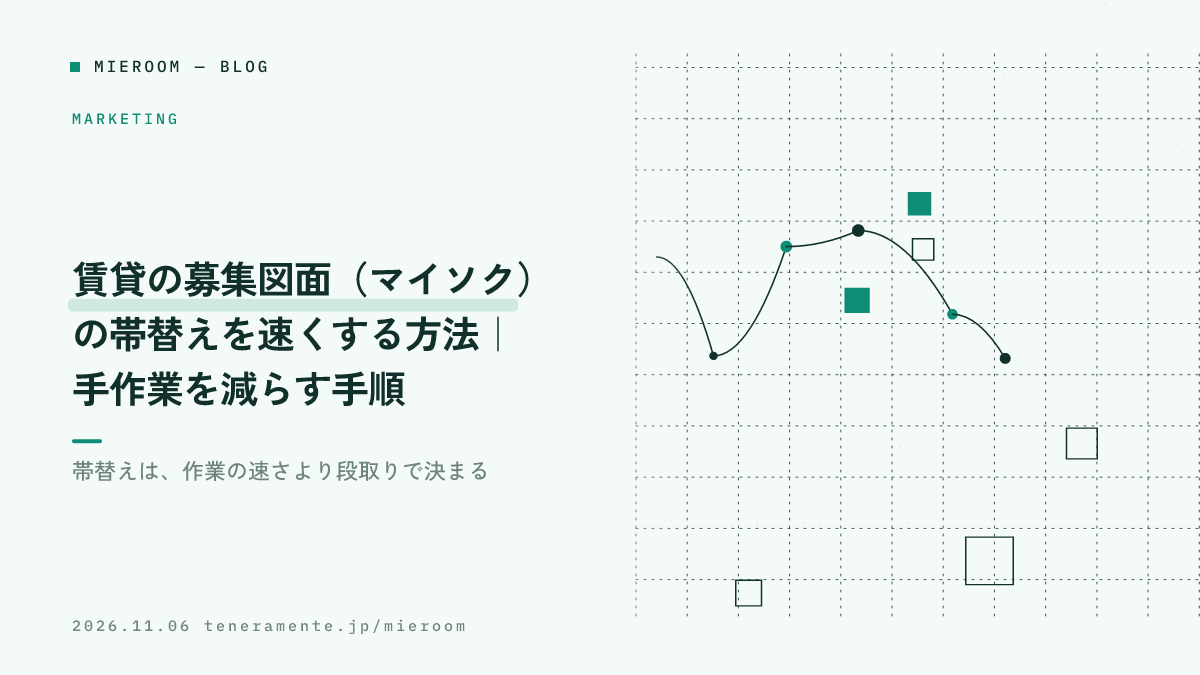
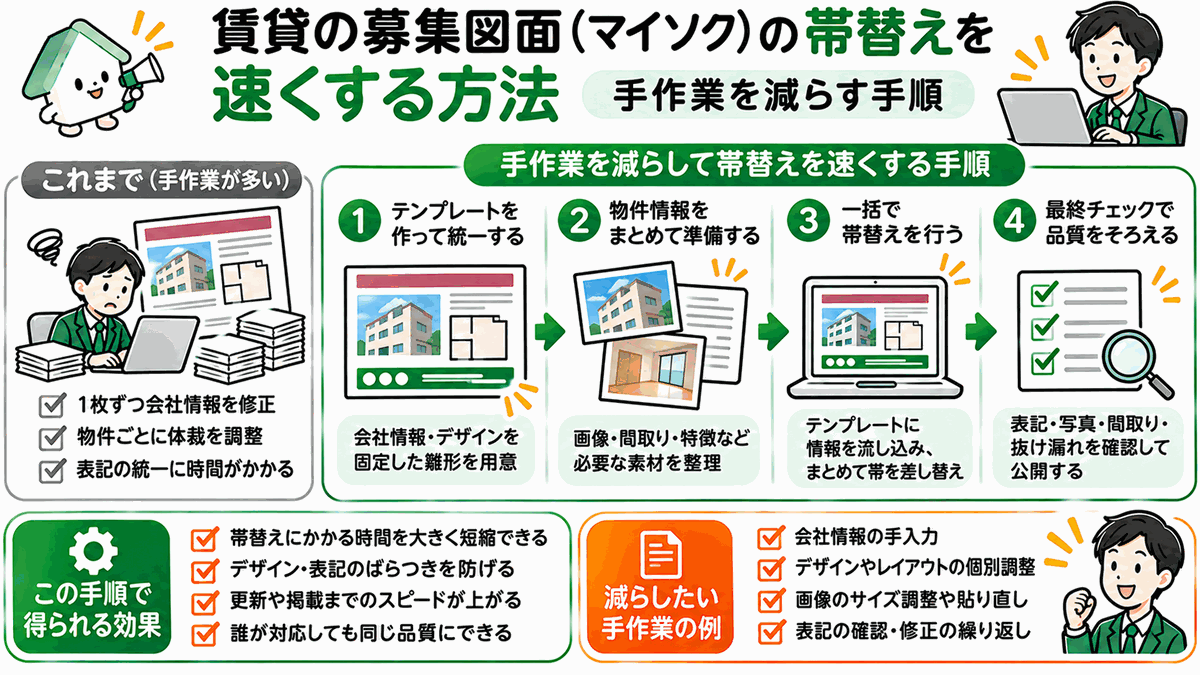
covers: 記事のトップ画像を ChatGPT の画像に差し替え（m109・m102）

diff --git a/mieroom/articles/chintai-kokyaku-kanrihyo-koumoku.html b/mieroom/articles/chintai-kokyaku-kanrihyo-koumoku.html
@@ -13,12 +13,15 @@
 <meta property="og:description" content="賃貸仲介の店舗でExcelの顧客管理表を作るときの項目設計を、使い道と入力タイミングから整理しました。最低限そろえる項目、追客のために足す項目、入力ルールの決め方、Excelで限界が出るサイン、チェックリストとよくある失敗までまとめています。">
 <meta property="og:url" content="https://mieroom.cloud/articles/chintai-kokyaku-kanrihyo-koumoku.html">
 <meta property="og:site_name" content="ミエルーム">
+<meta property="og:image" content="https://mieroom.cloud/assets/covers/chintai-kokyaku-kanrihyo-koumoku.png">
+<meta property="og:image:width" content="1200">
+<meta property="og:image:height" content="675">
 <meta name="twitter:card" content="summary_large_image">
 <link rel="preconnect" href="https://fonts.googleapis.com">
 <link rel="preconnect" href="https://fonts.gstatic.com" crossorigin>
 <link href="https://fonts.googleapis.com/css2?family=Noto+Sans+JP:wght@400;500;700;900&family=Zen+Kaku+Gothic+New:wght@500;700;900&display=swap" rel="stylesheet">
 <link rel="stylesheet" href="../assets/site.css">
-<script type="application/ld+json">{"@context":"https://schema.org","@graph":[{"@type":"BlogPosting","headline":"賃貸仲介の顧客管理表（Excel）の項目設計と、システムに移すタイミング","description":"賃貸仲介の店舗でExcelの顧客管理表を作るときの項目設計を、使い道と入力タイミングから整理しました。最低限そろえる項目、追客のために足す項目、入力ルールの決め方、Excelで限界が出るサイン、チェックリストとよくある失敗までまとめています。","datePublished":"2026-11-08","dateModified":"2026-11-08","inLanguage":"ja","mainEntityOfPage":"https://mieroom.cloud/articles/chintai-kokyaku-kanrihyo-koumoku.html","articleSection":"業務効率化","author":{"@type":"Organization","name":"ミエルーム編集部"},"publisher":{"@type":"Organization","name":"株式会社TENERAMENTE","logo":{"@type":"ImageObject","url":"https://teneramente.jp/assets/img/favicon-512.png"}},"keywords":"顧客管理, Excel, 業務効率化, 追客, 賃貸仲介"},{"@type":"BreadcrumbList","itemListElement":[{"@type":"ListItem","position":1,"name":"ミエルーム","item":"https://mieroom.cloud/"},{"@type":"ListItem","position":2,"name":"ブログ","item":"https://mieroom.cloud/blog.html"},{"@type":"ListItem","position":3,"name":"賃貸仲介の顧客管理表（Excel）の項目設計と、システムに移すタイミング","item":"https://mieroom.cloud/articles/chintai-kokyaku-kanrihyo-koumoku.html"}]},{"@type":"FAQPage","mainEntity":[{"@type":"Question","name":"顧客管理表の項目は、何列くらいが適切ですか。","acceptedAnswer":{"@type":"Answer","text":"始めるときは8列程度で足ります。受付日、氏名・連絡先、反響の経路、希望条件、入居希望時期、状況、担当者、次にやること・次回連絡日です。これが毎日埋まるようになってから、紹介した物件や断られた理由を足してください。最初から20列を作ると、埋まるのは名前と電話番号だけになります。"}},{"@type":"Question","name":"テンプレートを探していますが、そのまま使えますか。","acceptedAnswer":{"@type":"Answer","text":"項目の見本としては役に立ちますが、そのままでは使いにくいことが多いです。状況の段の名前や、断られた理由の区分は、店舗の運用に合わせて書き換える必要があります。列の参考にとどめ、入力のタイミングと言葉は自店舗で決めてください。"}},{"@type":"Question","name":"顧客管理表と申込管理表は、分けるべきですか。","acceptedAnswer":{"@type":"Answer","text":"初めは分かれていても構いませんが、同じ案件を両方に書いている状態が続くなら、まとめる検討をしてください。分かれていること自体ではなく、同じ内容を二度入力している点が負担になります。申込管理表の作り方は賃貸仲介の申込管理表の作り方に整理しています。"}},{"@type":"Question","name":"過去の顧客データは、どこまで残すべきですか。","acceptedAnswer":{"@type":"Answer","text":"終了した案件も残してください。時期がまだという理由で見送った方は、半年後や一年後の掘り起こしの対象になります。削除するのではなく、状況を終了にして、通常の一覧から外して表示する形が実務的です。個人情報の扱いは、保管期間と閲覧できる人を店舗で決めておいてください。"}},{"@type":"Question","name":"表計算ソフトからシステムに移すとき、入力済みのデータは引き継げますか。","acceptedAnswer":{"@type":"Answer","text":"引き継げます。ミエルームはExcelデータのインポートと初期設定の代行に対応しており、最短即日からのスタートが可能です。移す前に、項目名と状況の言葉を整えておくと、移行後の手直しが少なくなります。デモアカウントを発行していますので、いまの表の項目がどう収まるかを先に確かめていただけます。"}}]}]}</script>
+<script type="application/ld+json">{"@context":"https://schema.org","@graph":[{"@type":"BlogPosting","headline":"賃貸仲介の顧客管理表（Excel）の項目設計と、システムに移すタイミング","description":"賃貸仲介の店舗でExcelの顧客管理表を作るときの項目設計を、使い道と入力タイミングから整理しました。最低限そろえる項目、追客のために足す項目、入力ルールの決め方、Excelで限界が出るサイン、チェックリストとよくある失敗までまとめています。","datePublished":"2026-11-08","dateModified":"2026-11-08","inLanguage":"ja","mainEntityOfPage":"https://mieroom.cloud/articles/chintai-kokyaku-kanrihyo-koumoku.html","image":"https://mieroom.cloud/assets/covers/chintai-kokyaku-kanrihyo-koumoku.png","articleSection":"業務効率化","author":{"@type":"Organization","name":"ミエルーム編集部"},"publisher":{"@type":"Organization","name":"株式会社TENERAMENTE","logo":{"@type":"ImageObject","url":"https://teneramente.jp/assets/img/favicon-512.png"}},"keywords":"顧客管理, Excel, 業務効率化, 追客, 賃貸仲介"},{"@type":"BreadcrumbList","itemListElement":[{"@type":"ListItem","position":1,"name":"ミエルーム","item":"https://mieroom.cloud/"},{"@type":"ListItem","position":2,"name":"ブログ","item":"https://mieroom.cloud/blog.html"},{"@type":"ListItem","position":3,"name":"賃貸仲介の顧客管理表（Excel）の項目設計と、システムに移すタイミング","item":"https://mieroom.cloud/articles/chintai-kokyaku-kanrihyo-koumoku.html"}]},{"@type":"FAQPage","mainEntity":[{"@type":"Question","name":"顧客管理表の項目は、何列くらいが適切ですか。","acceptedAnswer":{"@type":"Answer","text":"始めるときは8列程度で足ります。受付日、氏名・連絡先、反響の経路、希望条件、入居希望時期、状況、担当者、次にやること・次回連絡日です。これが毎日埋まるようになってから、紹介した物件や断られた理由を足してください。最初から20列を作ると、埋まるのは名前と電話番号だけになります。"}},{"@type":"Question","name":"テンプレートを探していますが、そのまま使えますか。","acceptedAnswer":{"@type":"Answer","text":"項目の見本としては役に立ちますが、そのままでは使いにくいことが多いです。状況の段の名前や、断られた理由の区分は、店舗の運用に合わせて書き換える必要があります。列の参考にとどめ、入力のタイミングと言葉は自店舗で決めてください。"}},{"@type":"Question","name":"顧客管理表と申込管理表は、分けるべきですか。","acceptedAnswer":{"@type":"Answer","text":"初めは分かれていても構いませんが、同じ案件を両方に書いている状態が続くなら、まとめる検討をしてください。分かれていること自体ではなく、同じ内容を二度入力している点が負担になります。申込管理表の作り方は賃貸仲介の申込管理表の作り方に整理しています。"}},{"@type":"Question","name":"過去の顧客データは、どこまで残すべきですか。","acceptedAnswer":{"@type":"Answer","text":"終了した案件も残してください。時期がまだという理由で見送った方は、半年後や一年後の掘り起こしの対象になります。削除するのではなく、状況を終了にして、通常の一覧から外して表示する形が実務的です。個人情報の扱いは、保管期間と閲覧できる人を店舗で決めておいてください。"}},{"@type":"Question","name":"表計算ソフトからシステムに移すとき、入力済みのデータは引き継げますか。","acceptedAnswer":{"@type":"Answer","text":"引き継げます。ミエルームはExcelデータのインポートと初期設定の代行に対応しており、最短即日からのスタートが可能です。移す前に、項目名と状況の言葉を整えておくと、移行後の手直しが少なくなります。デモアカウントを発行していますので、いまの表の項目がどう収まるかを先に確かめていただけます。"}}]}]}</script>
 <style id="mp-nav-fit">
 /* 狭い画面ではヘッダーのボタンを小さくして、右にはみ出さないようにする */
 @media (max-width: 640px) {
@@ -72,7 +75,9 @@
     </div>
   </div>
 </section>
-
+<div class="post-cover">
+  <div class="band band--img"><img src="../assets/covers/chintai-kokyaku-kanrihyo-koumoku.webp" alt="賃貸仲介の顧客管理表（Excel）の項目設計と、システムに移すタイミング" width="1200" height="675" decoding="async"></div>
+</div>
 <div class="post-body">
 <p>顧客管理表を作ろうとして、まず列を並べたところで止まっていませんか。思いつく項目を足していくと、入力する人が追いつかず、半分が空欄の表だけが残ります。<strong>賃貸仲介の顧客管理表は、項目の多さではなく、何に使う項目なのかを決めてから作るのが正しい順番です</strong>。この記事では、最低限そろえる項目、追客のために足す項目、入力のルール、そして表を卒業する時期の見分け方を順に整理します。</p>
 <div class="conclusion">

diff --git a/mieroom/articles/boshu-zumen-obigae.html b/mieroom/articles/boshu-zumen-obigae.html
@@ -13,12 +13,15 @@
 <meta property="og:description" content="募集図面の帯替えに毎日時間を取られている店舗向けに、速くするための段取りを整理しました。自店舗の帯の中身の決め方、届いた図面の仕分け、手順の固定、1枚あたりの時間を縮める工夫、よくある失敗までまとめています。">
 <meta property="og:url" content="https://mieroom.cloud/articles/boshu-zumen-obigae.html">
 <meta property="og:site_name" content="ミエルーム">
+<meta property="og:image" content="https://mieroom.cloud/assets/covers/boshu-zumen-obigae.png">
+<meta property="og:image:width" content="1200">
+<meta property="og:image:height" content="675">
 <meta name="twitter:card" content="summary_large_image">
 <link rel="preconnect" href="https://fonts.googleapis.com">
 <link rel="preconnect" href="https://fonts.gstatic.com" crossorigin>
 <link href="https://fonts.googleapis.com/css2?family=Noto+Sans+JP:wght@400;500;700;900&family=Zen+Kaku+Gothic+New:wght@500;700;900&display=swap" rel="stylesheet">
 <link rel="stylesheet" href="../assets/site.css">
-<script type="application/ld+json">{"@context":"https://schema.org","@graph":[{"@type":"BlogPosting","headline":"賃貸の募集図面（マイソク）の帯替えを速くする方法｜手作業を減らす手順","description":"募集図面の帯替えに毎日時間を取られている店舗向けに、速くするための段取りを整理しました。自店舗の帯の中身の決め方、届いた図面の仕分け、手順の固定、1枚あたりの時間を縮める工夫、よくある失敗までまとめています。","datePublished":"2026-11-06","dateModified":"2026-11-06","inLanguage":"ja","mainEntityOfPage":"https://mieroom.cloud/articles/boshu-zumen-obigae.html","articleSection":"集客・広告","author":{"@type":"Organization","name":"ミエルーム編集部"},"publisher":{"@type":"Organization","name":"株式会社TENERAMENTE","logo":{"@type":"ImageObject","url":"https://teneramente.jp/assets/img/favicon-512.png"}},"keywords":"募集図面, マイソク, 業務効率化, 物件資料, 賃貸仲介"},{"@type":"BreadcrumbList","itemListElement":[{"@type":"ListItem","position":1,"name":"ミエルーム","item":"https://mieroom.cloud/"},{"@type":"ListItem","position":2,"name":"ブログ","item":"https://mieroom.cloud/blog.html"},{"@type":"ListItem","position":3,"name":"賃貸の募集図面（マイソク）の帯替えを速くする方法｜手作業を減らす手順","item":"https://mieroom.cloud/articles/boshu-zumen-obigae.html"}]},{"@type":"FAQPage","mainEntity":[{"@type":"Question","name":"元の帯を消して自社の帯を載せるのは問題ないのでしょうか","acceptedAnswer":{"@type":"Answer","text":"管理会社から配布された図面の扱いは、配布元の方針によって異なります。帯替えを前提に配られている場合もあれば、加工を認めていない場合もあります。取引のある管理会社ごとに、どこまで加工してよいかを確認し、店舗の手順書に記録してください。判断がつかない図面は、情報を書き起こして自店舗で作り直す形が安全です。"}},{"@type":"Question","name":"帯替えは営業と事務のどちらがやるべきですか","acceptedAnswer":{"@type":"Answer","text":"手順が固定されていれば事務に寄せられます。固定されていない状態で事務に渡すと、判断のたびに営業へ確認が飛び、かえって時間がかかります。先に帯の中身と手順を決め、そのうえで担当を移してください。"}},{"@type":"Question","name":"紙やFAXで届いた図面はどうすればいいですか","acceptedAnswer":{"@type":"Answer","text":"取り込んで使う場合は、傾きとかすれを直してから帯を重ねます。読めない部分が残る図面は、そのまま使うとお客様への説明でつまずくので、情報を書き起こして作り直したほうが結果的に早いことが多いです。どちらにするかの基準を、文字が読めるかどうかで決めておくと迷いません。"}},{"@type":"Question","name":"帯のデザインはどこまで作り込むべきですか","acceptedAnswer":{"@type":"Answer","text":"読みやすさが最優先です。店舗名と連絡先がすぐ目に入り、必要な記載が欠けていなければ十分です。装飾を増やすと図面本体の情報が読みにくくなるため、余白を確保する方向で整えてください。"}},{"@type":"Question","name":"図面の保存先はどう決めればいいですか","acceptedAnswer":{"@type":"Answer","text":"物件ごとに1か所、が原則です。担当者のパソコンに置くと、担当が替わったときに探せません。物件の情報と一緒に残る場所に置き、ファイル名の付け方も店舗で統一してください。元の図面と帯替え後の図面は、どちらも残します。"}}]}]}</script>
+<script type="application/ld+json">{"@context":"https://schema.org","@graph":[{"@type":"BlogPosting","headline":"賃貸の募集図面（マイソク）の帯替えを速くする方法｜手作業を減らす手順","description":"募集図面の帯替えに毎日時間を取られている店舗向けに、速くするための段取りを整理しました。自店舗の帯の中身の決め方、届いた図面の仕分け、手順の固定、1枚あたりの時間を縮める工夫、よくある失敗までまとめています。","datePublished":"2026-11-06","dateModified":"2026-11-06","inLanguage":"ja","mainEntityOfPage":"https://mieroom.cloud/articles/boshu-zumen-obigae.html","image":"https://mieroom.cloud/assets/covers/boshu-zumen-obigae.png","articleSection":"集客・広告","author":{"@type":"Organization","name":"ミエルーム編集部"},"publisher":{"@type":"Organization","name":"株式会社TENERAMENTE","logo":{"@type":"ImageObject","url":"https://teneramente.jp/assets/img/favicon-512.png"}},"keywords":"募集図面, マイソク, 業務効率化, 物件資料, 賃貸仲介"},{"@type":"BreadcrumbList","itemListElement":[{"@type":"ListItem","position":1,"name":"ミエルーム","item":"https://mieroom.cloud/"},{"@type":"ListItem","position":2,"name":"ブログ","item":"https://mieroom.cloud/blog.html"},{"@type":"ListItem","position":3,"name":"賃貸の募集図面（マイソク）の帯替えを速くする方法｜手作業を減らす手順","item":"https://mieroom.cloud/articles/boshu-zumen-obigae.html"}]},{"@type":"FAQPage","mainEntity":[{"@type":"Question","name":"元の帯を消して自社の帯を載せるのは問題ないのでしょうか","acceptedAnswer":{"@type":"Answer","text":"管理会社から配布された図面の扱いは、配布元の方針によって異なります。帯替えを前提に配られている場合もあれば、加工を認めていない場合もあります。取引のある管理会社ごとに、どこまで加工してよいかを確認し、店舗の手順書に記録してください。判断がつかない図面は、情報を書き起こして自店舗で作り直す形が安全です。"}},{"@type":"Question","name":"帯替えは営業と事務のどちらがやるべきですか","acceptedAnswer":{"@type":"Answer","text":"手順が固定されていれば事務に寄せられます。固定されていない状態で事務に渡すと、判断のたびに営業へ確認が飛び、かえって時間がかかります。先に帯の中身と手順を決め、そのうえで担当を移してください。"}},{"@type":"Question","name":"紙やFAXで届いた図面はどうすればいいですか","acceptedAnswer":{"@type":"Answer","text":"取り込んで使う場合は、傾きとかすれを直してから帯を重ねます。読めない部分が残る図面は、そのまま使うとお客様への説明でつまずくので、情報を書き起こして作り直したほうが結果的に早いことが多いです。どちらにするかの基準を、文字が読めるかどうかで決めておくと迷いません。"}},{"@type":"Question","name":"帯のデザインはどこまで作り込むべきですか","acceptedAnswer":{"@type":"Answer","text":"読みやすさが最優先です。店舗名と連絡先がすぐ目に入り、必要な記載が欠けていなければ十分です。装飾を増やすと図面本体の情報が読みにくくなるため、余白を確保する方向で整えてください。"}},{"@type":"Question","name":"図面の保存先はどう決めればいいですか","acceptedAnswer":{"@type":"Answer","text":"物件ごとに1か所、が原則です。担当者のパソコンに置くと、担当が替わったときに探せません。物件の情報と一緒に残る場所に置き、ファイル名の付け方も店舗で統一してください。元の図面と帯替え後の図面は、どちらも残します。"}}]}]}</script>
 <style id="mp-nav-fit">
 /* 狭い画面ではヘッダーのボタンを小さくして、右にはみ出さないようにする */
 @media (max-width: 640px) {
@@ -72,7 +75,9 @@
     </div>
   </div>
 </section>
-
+<div class="post-cover">
+  <div class="band band--img"><img src="../assets/covers/boshu-zumen-obigae.webp" alt="賃貸の募集図面（マイソク）の帯替えを速くする方法｜手作業を減らす手順" width="1200" height="675" decoding="async"></div>
+</div>
 <div class="post-body">
 <p>管理会社から届いた募集図面の帯を自社のものに差し替える作業は、1枚あたりは数分でも、1日に何十枚と重なると営業の時間を食います。<strong>帯替えが遅いのは作業が難しいからではなく、毎回判断しながらやっているからです</strong>。何を載せるか、どのファイルを使うか、誰がやるかを先に決めておくだけで、作業時間は読めるようになります。</p>
 <div class="conclusion">

diff --git a/mieroom/blog.html b/mieroom/blog.html
@@ -305,7 +305,7 @@ src="https://www.facebook.com/tr?id=28086413637650888&ev=PageView&noscript=1"
       </a>
 
       <a class="bpost" data-cat="業務効率化" data-text="賃貸仲介の顧客管理表（Excel）の項目設計と、システムに移すタイミング 顧客管理 Excel 業務効率化 追客 賃貸仲介" href="articles/chintai-kokyaku-kanrihyo-koumoku.html">
-        <div class="bcover bcover--text"><span class="bct-cat">業務効率化</span><b>賃貸仲介の顧客管理表（Excel）の項目設計と、システムに移すタイミング</b></div>
+        <div class="bcover bcover--img"><img src="assets/covers/chintai-kokyaku-kanrihyo-koumoku-card.webp" alt="賃貸仲介の顧客管理表（Excel）の項目設計と、システムに移すタイミング" loading="lazy" decoding="async" width="640" height="360"></div>
         <div class="bbody">
           <div class="bmeta"><span class="bcat">業務効率化</span><span class="bdate">2026.11.08</span></div>
           <h3>賃貸仲介の顧客管理表（Excel）の項目設計と、システムに移すタイミング</h3>
@@ -325,7 +325,7 @@ src="https://www.facebook.com/tr?id=28086413637650888&ev=PageView&noscript=1"
       </a>
 
       <a class="bpost" data-cat="集客・広告" data-text="賃貸の募集図面（マイソク）の帯替えを速くする方法｜手作業を減らす手順 募集図面 マイソク 業務効率化 物件資料 賃貸仲介" href="articles/boshu-zumen-obigae.html">
-        <div class="bcover bcover--text"><span class="bct-cat">集客・広告</span><b>賃貸の募集図面（マイソク）の帯替えを速くする方法｜手作業を減らす手順</b></div>
+        <div class="bcover bcover--img"><img src="assets/covers/boshu-zumen-obigae-card.webp" alt="賃貸の募集図面（マイソク）の帯替えを速くする方法｜手作業を減らす手順" loading="lazy" decoding="async" width="640" height="360"></div>
         <div class="bbody">
           <div class="bmeta"><span class="bcat">集客・広告</span><span class="bdate">2026.11.06</span></div>
           <h3>賃貸の募集図面（マイソク）の帯替えを速くする方法｜手作業を減らす手順</h3>
